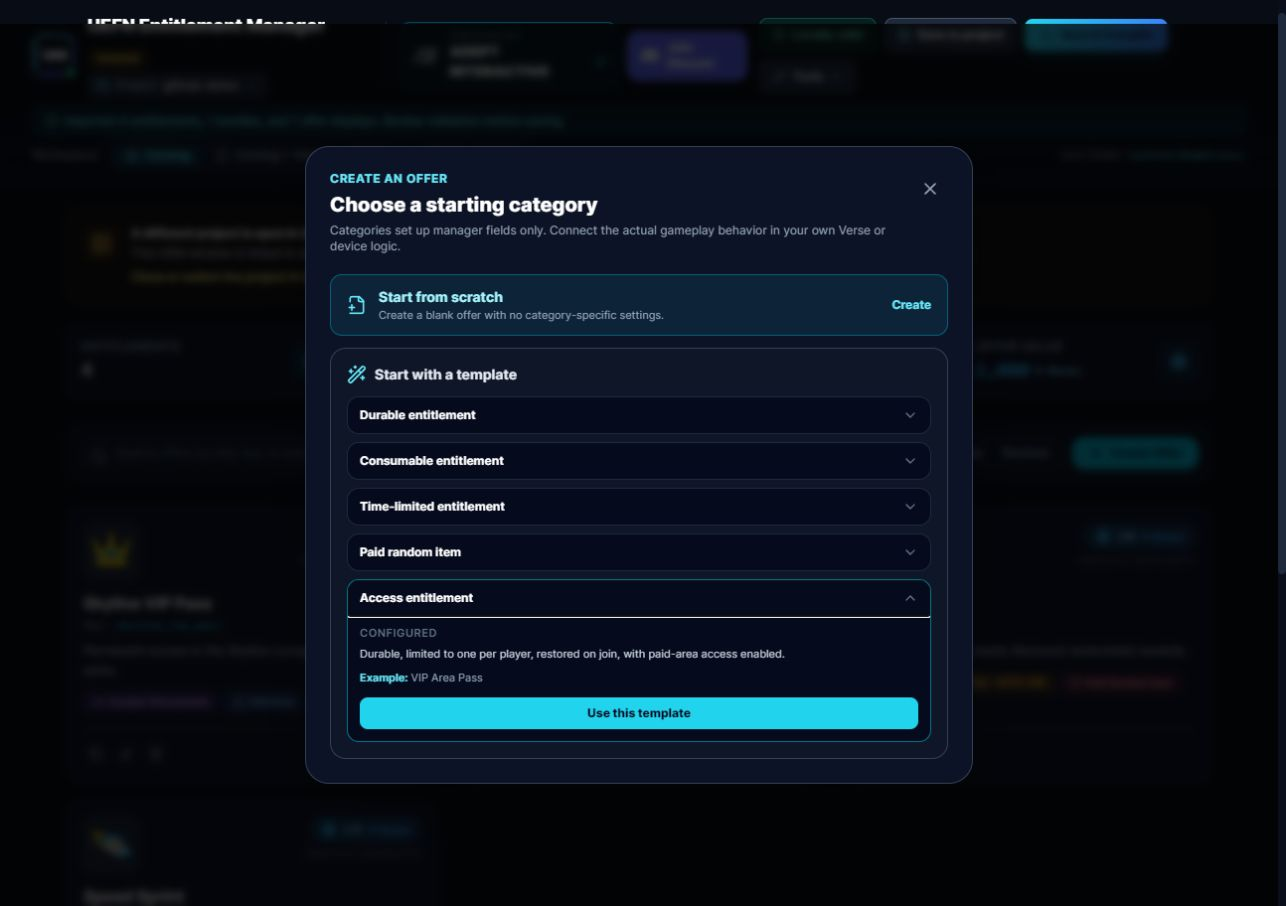
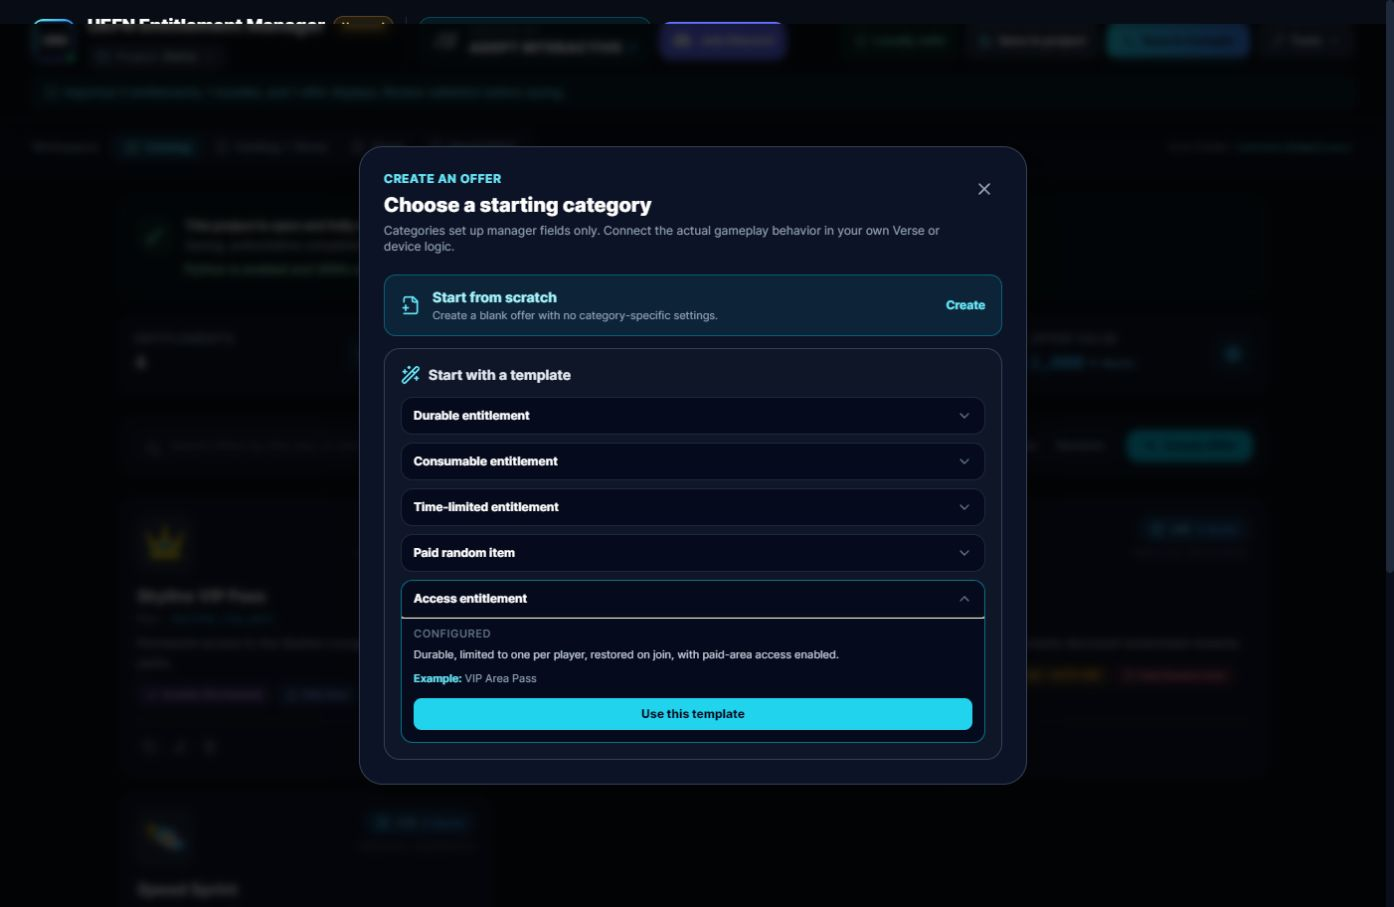
docs: showcase the connected UEFN workflow

diff --git a/README.md b/README.md
@@ -1,7 +1,7 @@
 <div align="center">
   <img src="public/uem-mark.svg" alt="UEFN Entitlement Manager icon" width="112" height="112">
   <h1>UEFN Entitlement Manager</h1>
-  <p><strong>Design In-Island Transaction catalogs, generate reviewable Verse, and keep every project isolated.</strong></p>
+  <p><strong>Connect directly to UEFN, build your transaction catalog visually, import ready-to-use icons, and compile generated Verse without leaving the manager.</strong></p>
   <p>
     <img alt="Version 2.3.2" src="https://img.shields.io/badge/version-2.3.2-24c7dd?style=flat-square">
     <img alt="Windows" src="https://img.shields.io/badge/platform-Windows-5b8cff?style=flat-square">
@@ -17,17 +17,28 @@
   </p>
 </div>
 
-UEFN Entitlement Manager is a local Windows desktop tool for Fortnite creators working with In-Island Transactions. It turns a visual catalog into entitlement classes, individual and bundle offers, storefront displays, purchase prompts, event hooks, and a versioned `managed_transactions.verse` file that can be reopened without guessing at existing code.
+UEFN Entitlement Manager is a local Windows desktop tool that works alongside the UEFN project you already have open. Its authenticated editor connector attaches automatically, imports native Texture2D assets into the correct project mount, writes the generated `managed_transactions.verse` file safely, and asks UEFN's own local Verse Workflow Server to compile it directly from **Save & Compile**.
 
-The manager complements UEFN. It does not replace Verse compilation, edit-session testing, moderation review, or Epic's current transaction requirements.
+The visual catalog produces entitlement classes, individual and bundle offers, storefront displays, purchase prompts, and public event hooks. A versioned manifest inside the generated file lets UEM reopen the exact catalog later instead of guessing at executable Verse.
+
+![Fully connected Demo project with custom entitlement icons](docs/screenshots/catalog-overview.png)
+
+## Built around a live UEFN connection
+
+UEM is more than a standalone code generator. The desktop launcher verifies the selected `.uefnproject`, starts a project-scoped authenticated bridge, and installs a small automatic editor connector under the project's `Content/Python` folder. Once Python Editor Scripting is enabled, the manager detects it immediately and attaches to the open editor without a restart.
+
+From that connected state, UEM can:
+
+- write the current catalog to `managed_transactions.verse` using an atomic replacement and verified backup;
+- send the project to UEFN's local Verse Workflow Server and report success only after the authoritative response contains zero errors;
+- import confirmed PNGs as native Texture2D assets under the verified project plugin mount;
+- automatically normalize non-compliant images to the most logical power-of-two canvas before import;
+- preserve transparent artwork, show the exact normalized preview, and rehydrate thumbnails after later launches; and
+- distinguish a fully connected project from a closed editor, a different open project, or a missing Python connector before allowing editor-dependent actions.
+
+UEM invokes UEFN's real local compiler and importer. It does not simulate a successful build or treat local validation as proof of native import, gameplay correctness, moderation approval, or marketplace compliance.
 
 ## See it in action
-
-### Catalog and generated Verse
-
-Build a catalog with custom icons, prices, restrictions, bundles, and focused offer displays while reviewing the generated Verse beside it.
-
-![Catalog and generated Verse workspace](docs/screenshots/catalog-and-verse.png)
 
 ### Focused starting templates
 
@@ -41,7 +52,7 @@ The built-in help panel covers Python Editor Scripting, compiling, placing the g
 
 ![In-app Python and UEFN setup help](docs/screenshots/python-help.png)
 
-> The screenshots use isolated dummy catalog data and original flat demo icons. No production project content is included.
+> The screenshots use a sandboxed Demo catalog and original flat icon assets. No production project data is included or saved.
 
 ## Highlights
 
